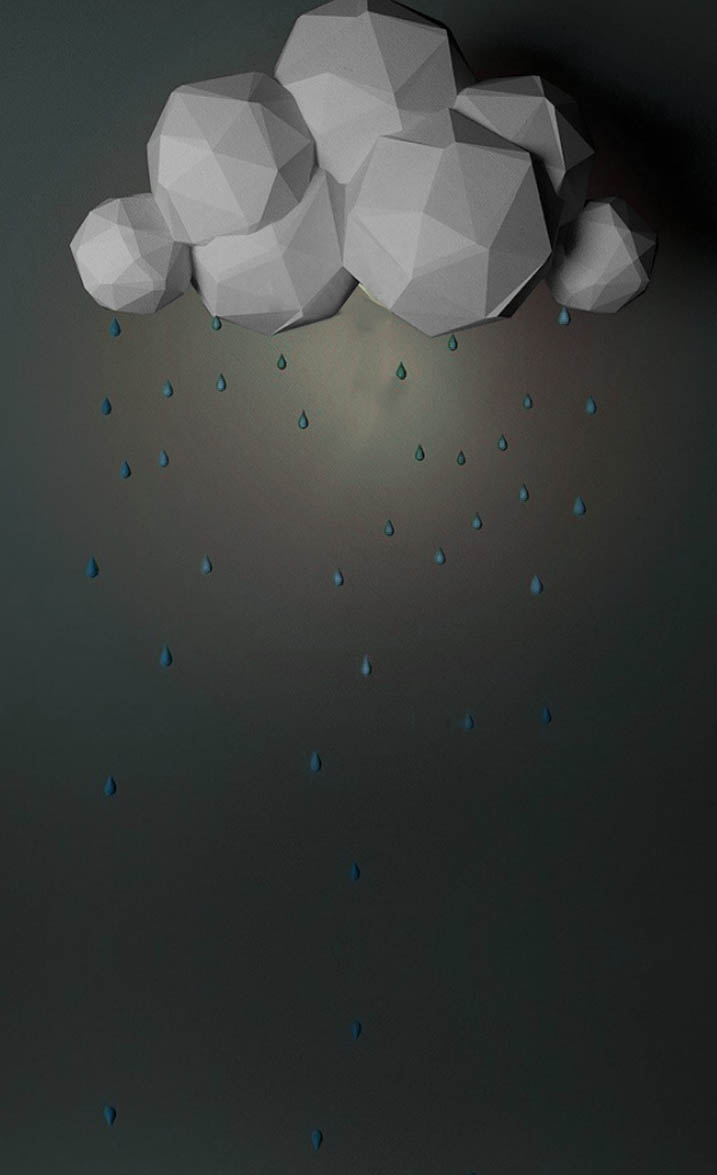
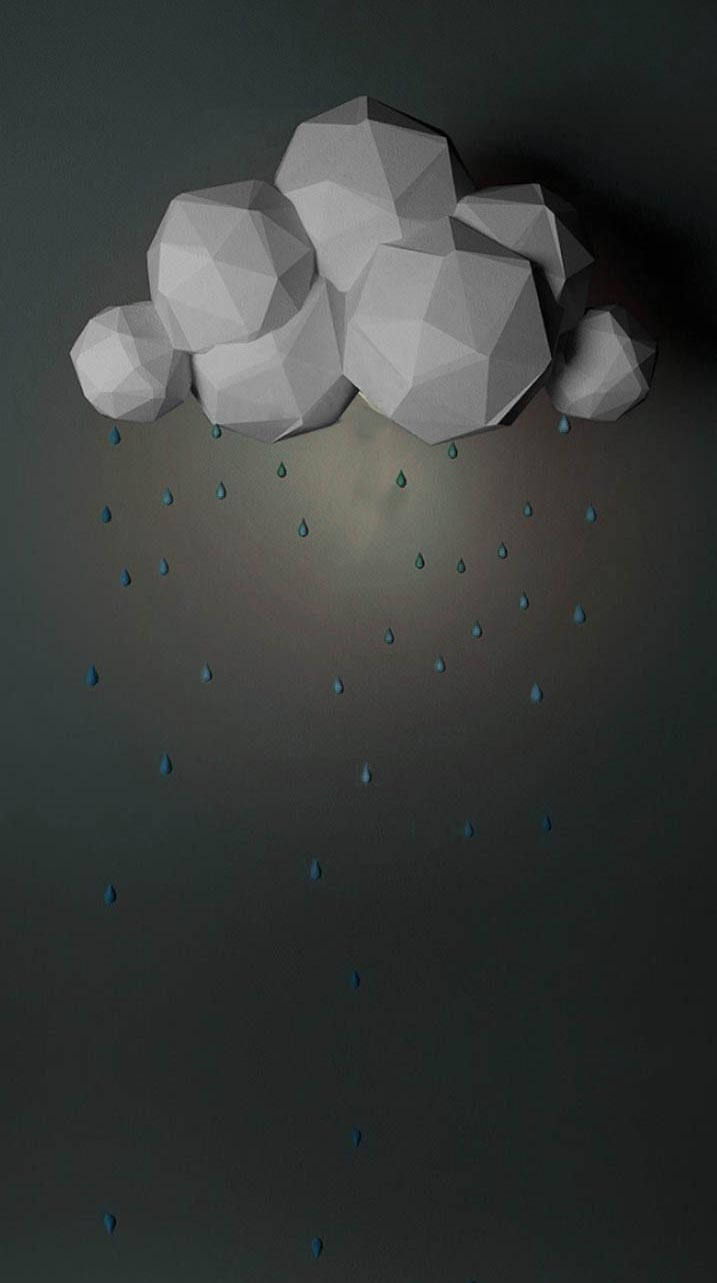
Home page background changes if you click the thunderbolt

diff --git a/www/js/Controllers/home.controller.js b/www/js/Controllers/home.controller.js
@@ -15,6 +15,7 @@ angular
             vm.City = [];
             vm.updatedCityName = updatedCityName;
             vm.updatedCheckbox = updatedCheckbox;
+            vm.changeBackground = changeBackground;
             
             for (var i = 0; i < 3; i++) {
                 vm.City.push({name: CityService.getCity(i), checkbox: CityService.getCheckbox(i)});
@@ -26,6 +27,16 @@ angular
             $scope.$watch('vm.lang', function() {
                 updateLang();
             });
+            
+            function changeBackground(thunders){
+            	if(thunders){
+            		document.getElementsByClassName("pane")[2].style.backgroundImage = "url('../img/background_nothunderbolt.jpg')";
+            	}else{
+            		document.getElementsByClassName("pane")[2].style.backgroundImage = "url('../img/background.jpg')";
+            	}
+                return !thunders;
+            }
+            
             
             //change city name on menu
             function updatedCityName (i) {

diff --git a/www/templates/home.html b/www/templates/home.html
@@ -10,9 +10,9 @@
                   </ion-nav-buttons> 
     
     
-    <ion-content class="has-header" scroll="false">
-
-        
+    <ion-content class="has-header" scroll="false" ng-init="thunders=true">
+		<div class="game" on-touch="thunders=vm.changeBackground(thunders)">
+		</div>
         <div class="home_buttons_maps">
             <div class = "row">
                 <div ng-repeat="i in [0, 1, 2]" class = "col" style="text-align: center" ng-hide="!vm.updatedCheckbox(i) || vm.updatedCityName(i) == null">

diff --git a/www/css/style.css b/www/css/style.css
@@ -350,3 +350,12 @@ b{
 	margin-top:400px;
 	height:130px;
 }
+
+.game{
+	margin-left: auto;
+    margin-right: auto;
+    display: block;
+	width:50px;
+	margin-top:100px;
+	height:110px;
+}
